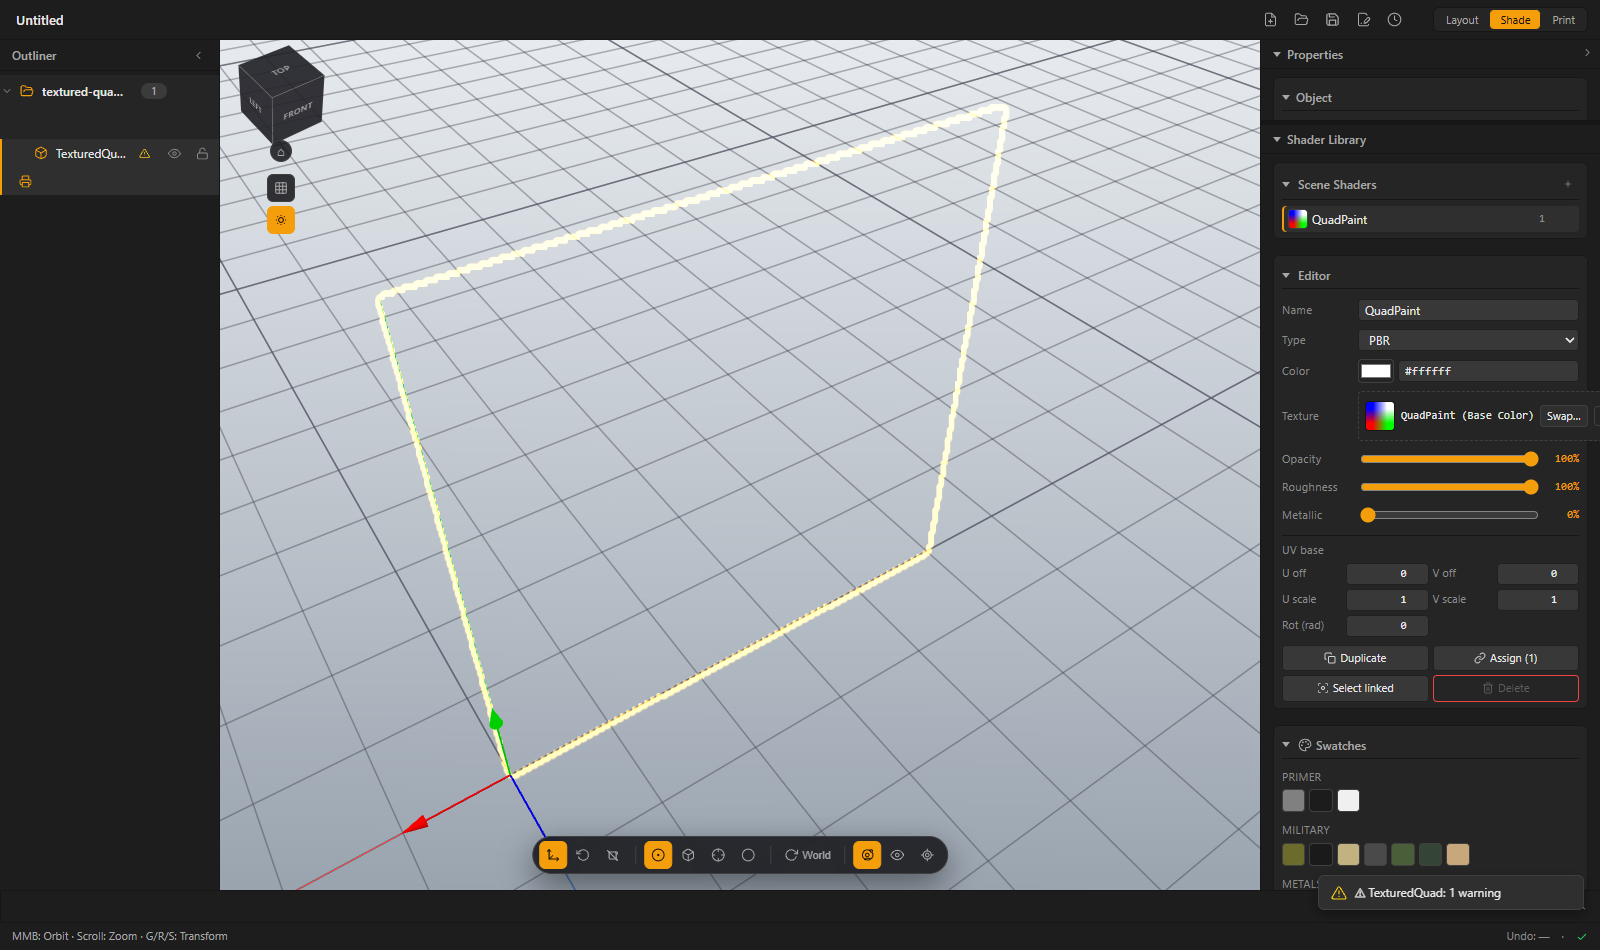
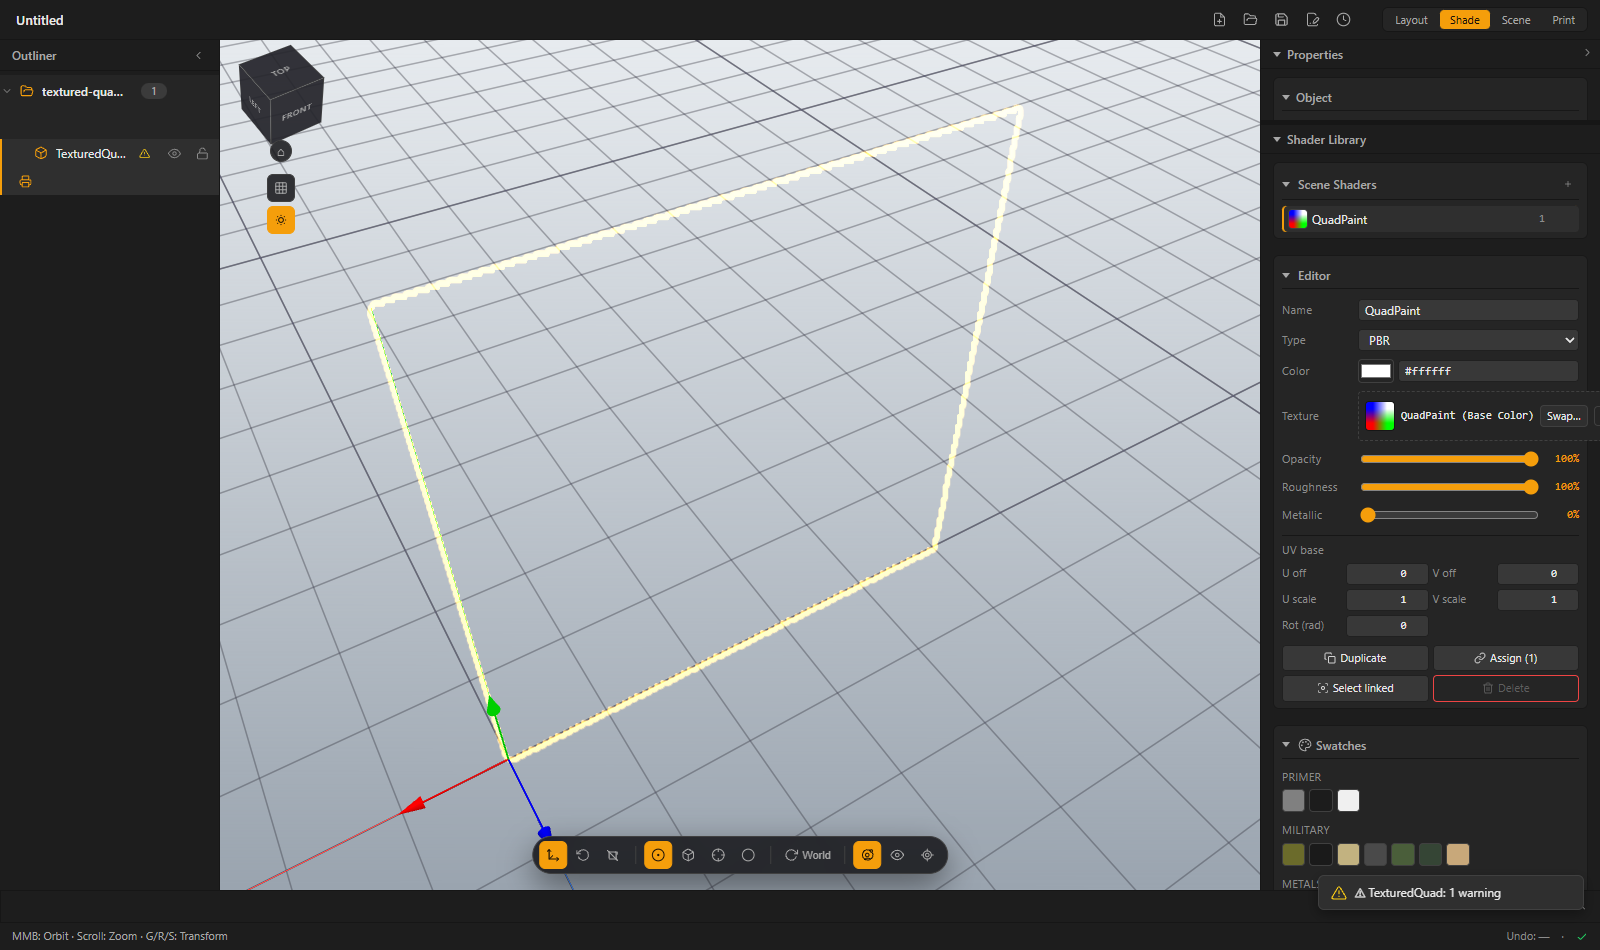
feat(workspace): Scene is its own workspace between Shade and Print
Four workspaces now: Layout / Shade / Scene / Print (user request —
Scene panel deserves a dedicated tab rather than piggybacking Layout).
Layout returns to pure arrange focus (Properties + asset panel, no
specialist section); Scene workspace shows Properties + the Scene panel
(Grid / Render / Camera). Hotkeys extend to Ctrl+Shift+1..4; header pill
and localStorage handling pick the new entry up automatically. Blueprint
13b table/deviation note + hotkey list updated; workspace test pins the
four-entry order.

diff --git a/src/ui/Workspace.js b/src/ui/Workspace.js
@@ -19,18 +19,20 @@ const STORAGE_KEY = 'mixomesh_ui_workspace';
 const STORAGE_VERSION = 2;
 const SILENT = { silent: true };
 
-export const WORKSPACES = ['layout', 'shade', 'print'];
+export const WORKSPACES = ['layout', 'shade', 'scene', 'print'];
 
 /**
  * Per-workspace defaults. `right`/`bottom` are panel visibility (manual
  * panelCollapsed overrides layer on top); widths/heights feed the CSS grid
  * variables. Section visibility inside the right column (which of
- * Properties / Shader / Print show) is CSS-driven via body[data-workspace]
+ * Properties / Shader / Scene / Print show — one specialist section per
+ * workspace, no repeats) is CSS-driven via body[data-workspace]
  * (see layout.css) so it needs no per-panel JS.
  */
 export const WORKSPACE_DEFAULTS = {
   layout: { right: true, bottom: true,  outlinerWidth: 260, rightWidth: 300, assetHeight: 220, label: 'Layout' },
   shade:  { right: true, bottom: false, outlinerWidth: 220, rightWidth: 340, assetHeight: 220, label: 'Shade' },
+  scene:  { right: true, bottom: false, outlinerWidth: 220, rightWidth: 320, assetHeight: 220, label: 'Scene' },
   print:  { right: true, bottom: false, outlinerWidth: 220, rightWidth: 320, assetHeight: 220, label: 'Print' },
 };
 
@@ -98,12 +100,14 @@ export function init() {
 
   InputManager.register('Ctrl+Shift+!', 'global', () => setWorkspace('layout'));
   InputManager.register('Ctrl+Shift+@', 'global', () => setWorkspace('shade'));
-  InputManager.register('Ctrl+Shift+#', 'global', () => setWorkspace('print'));
+  InputManager.register('Ctrl+Shift+#', 'global', () => setWorkspace('scene'));
+  InputManager.register('Ctrl+Shift+$', 'global', () => setWorkspace('print'));
   // Shift+digit produces the symbol on US layouts; register the digit form
-  // too so non-US layouts that report '1'..'3' still work.
+  // too so non-US layouts that report '1'..'4' still work.
   InputManager.register('Ctrl+Shift+1', 'global', () => setWorkspace('layout'));
   InputManager.register('Ctrl+Shift+2', 'global', () => setWorkspace('shade'));
-  InputManager.register('Ctrl+Shift+3', 'global', () => setWorkspace('print'));
+  InputManager.register('Ctrl+Shift+3', 'global', () => setWorkspace('scene'));
+  InputManager.register('Ctrl+Shift+4', 'global', () => setWorkspace('print'));
 
   InputManager.register('N',  'global', () => togglePanel('right'));
   InputManager.register('T',  'global', () => togglePanel('bottom'));

diff --git a/src/styles/layout.css b/src/styles/layout.css
@@ -265,16 +265,21 @@
 
 /* Each workspace shows Properties + exactly ONE specialist section — no
    repeated sections across workspaces (they dilute the presets):
-     Layout → Scene (arrange + scene/render setup)
+     Layout → Properties + Asset panel (arrange focus, no specialist section)
      Shade  → Shader Library (ShaderPanel.focus auto-switches here)
+     Scene  → Scene (grid / render / camera setup)
      Print  → Print
    The splitter sits between Properties and Shader Library, so it only
    exists in Shade. */
 body[data-workspace="layout"] #rp-print,
 body[data-workspace="layout"] #rp-shaders,
+body[data-workspace="layout"] #rp-scene,
 body[data-workspace="layout"] .rp-splitter { display: none; }
 body[data-workspace="shade"]  #rp-print,
 body[data-workspace="shade"]  #rp-scene   { display: none; }
+body[data-workspace="scene"]  #rp-print,
+body[data-workspace="scene"]  #rp-shaders,
+body[data-workspace="scene"]  .rp-splitter { display: none; }
 body[data-workspace="print"]  #rp-shaders,
 body[data-workspace="print"]  #rp-scene,
 body[data-workspace="print"]  .rp-splitter { display: none; }

diff --git a/Blueprint.md b/Blueprint.md
@@ -861,9 +861,10 @@ Ctrl+Shift+S    → save as
 Ctrl+N          → new project (confirm if dirty)
 Ctrl+O          → open
 
-Ctrl+1          → workspace: Layout     (see PART 13b)
-Ctrl+2          → workspace: Shade
-Ctrl+3          → workspace: Print
+Ctrl+Shift+1    → workspace: Layout     (see PART 13b — Ctrl+digit is Chrome-reserved)
+Ctrl+Shift+2    → workspace: Shade
+Ctrl+Shift+3    → workspace: Scene
+Ctrl+Shift+4    → workspace: Print
 ```
 
 **Panel toggles** (single keys; suppressed when an `<input>/<textarea>/<select>` has focus):
@@ -2293,8 +2294,9 @@ State lives in `state.scene.overlays` (silent writes, same contract the
 Preview tab used). Re-renders on `PROJECT_LOADED` / `PROJECT_NEW`.
 
 ### Scene Panel (`src/ui/ScenePanel.js`)
-Right-panel section `#rp-scene` (stacked after Shader Library, hidden in the
-Print workspace). Scene-wide settings, moved out of the Properties panel so
+Right-panel section `#rp-scene` — the specialist section of the **Scene
+workspace** (hidden in Layout / Shade / Print). Scene-wide settings, moved
+out of the Properties panel so
 they stay reachable while an object is selected (the old Scene section only
 rendered with nothing active — Properties is object-scoped now). Sections:
 - **Grid** — grid cell (mm) + subdivisions (`SceneManager.setGrid`), grid +
@@ -2400,11 +2402,13 @@ localStorage persistence, `.mixo` ui-strip. Two deliberate v1 deviations:
   expand/collapse defaults in the workspace table below (e.g. "Transform
   expanded, Shader header-collapsed") are NOT implemented. Instead (2026-06-12
   decision: no repeated sections across workspaces unless genuinely needed)
-  each workspace shows Properties + exactly ONE specialist section:
-  Layout → **Scene** panel, Shade → **Shader Library**, Print → **Print**.
-  `ShaderPanel.focus()` auto-switches to Shade when invoked from another
-  workspace (Properties chip click / ContextMenu Set Shader). Expansion state
-  within visible panels is left to the user.
+  each workspace shows Properties + at most ONE specialist section:
+  Layout → none (arrange focus, asset panel visible), Shade → **Shader
+  Library**, Scene → **Scene** panel, Print → **Print**. FOUR workspaces —
+  Scene was promoted to its own workspace between Shade and Print
+  (user decision 2026-06-12). `ShaderPanel.focus()` auto-switches to Shade
+  when invoked from another workspace (Properties chip click / ContextMenu
+  Set Shader). Expansion state within visible panels is left to the user.
 
 **Design intent.** The user's workflow is linear — *Import → Arrange → Shade → Print* — not the swiss-army-knife DCC pattern. Tabbed panels with manual resize don't scale once the Print pipeline grows (Bed / Scale / Validation / Export, plus deferred Thickness / Orientation). Industry-standard fix is **workspace presets** (Blender top-bar pattern, also Substance Painter, Maya, Cinema 4D, Houdini): a tiny set of named panel layouts, one click to switch. The user stops resizing because the layout is *per task*, not freeform.
 
@@ -2418,8 +2422,9 @@ This is **not** a full dockable/floating-panel system (Blender's `Area`/`Region`
 
 | Workspace | Outliner | Properties | Scene Panel | Shader Library | Asset Panel | Print Panel |
 |---|---|---|---|---|---|---|
-| **Layout** (default — import & arrange) | visible 260px | visible | **visible** (grid / render / camera setup) | hidden | visible at default 220px (drop target focus) | hidden |
+| **Layout** (default — import & arrange) | visible 260px | visible | hidden | hidden | visible at default 220px (drop target focus) | hidden |
 | **Shade** (texture / shader / UV) | visible 220px (narrow) | visible | hidden | **visible, expanded — primary edit surface** | hidden | hidden |
+| **Scene** (grid / render / camera setup) | visible 220px (narrow) | visible | **visible** | hidden | hidden | hidden |
 | **Print** (validate + export) | visible 220px (narrow) | visible | hidden | hidden | hidden | **visible at full height** (Scale / Validation / Bed / Export) |
 
 Outliner is **pinned** in every workspace — you always need the scene list to know what you're working on. The user can still hide it via `panelCollapsed.left` (manual override), but it isn't a workspace default.
